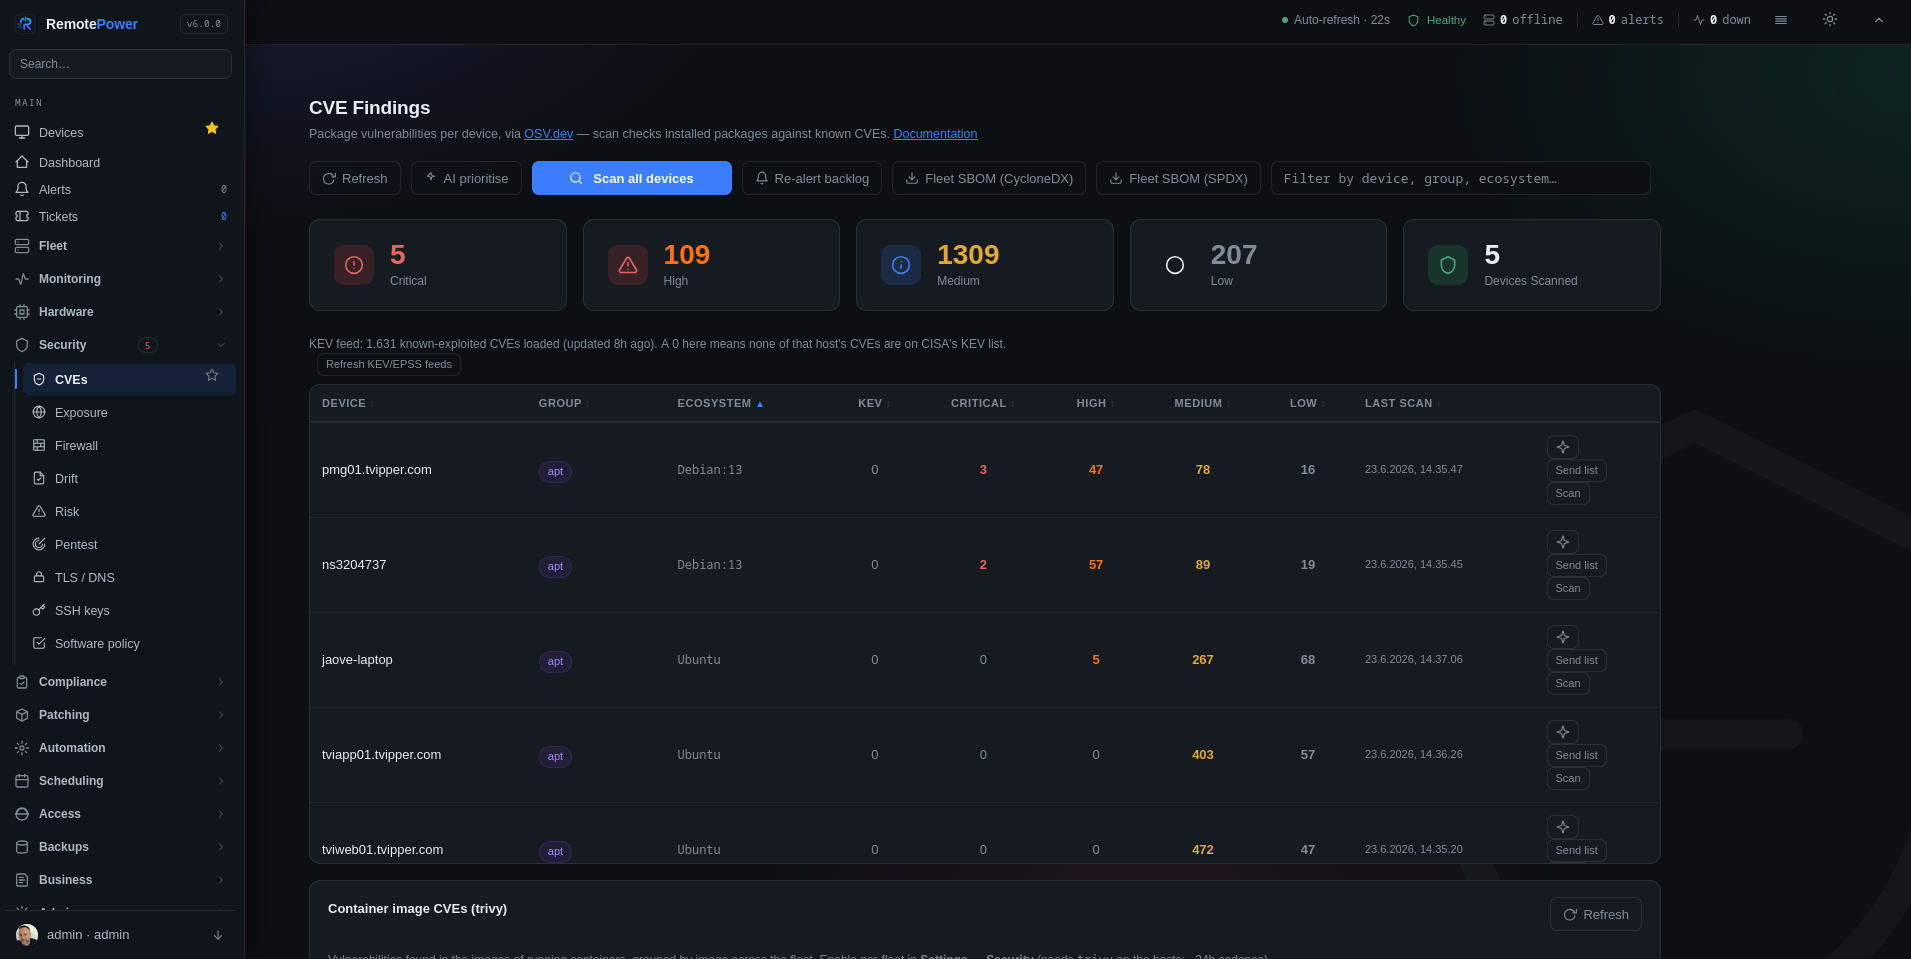
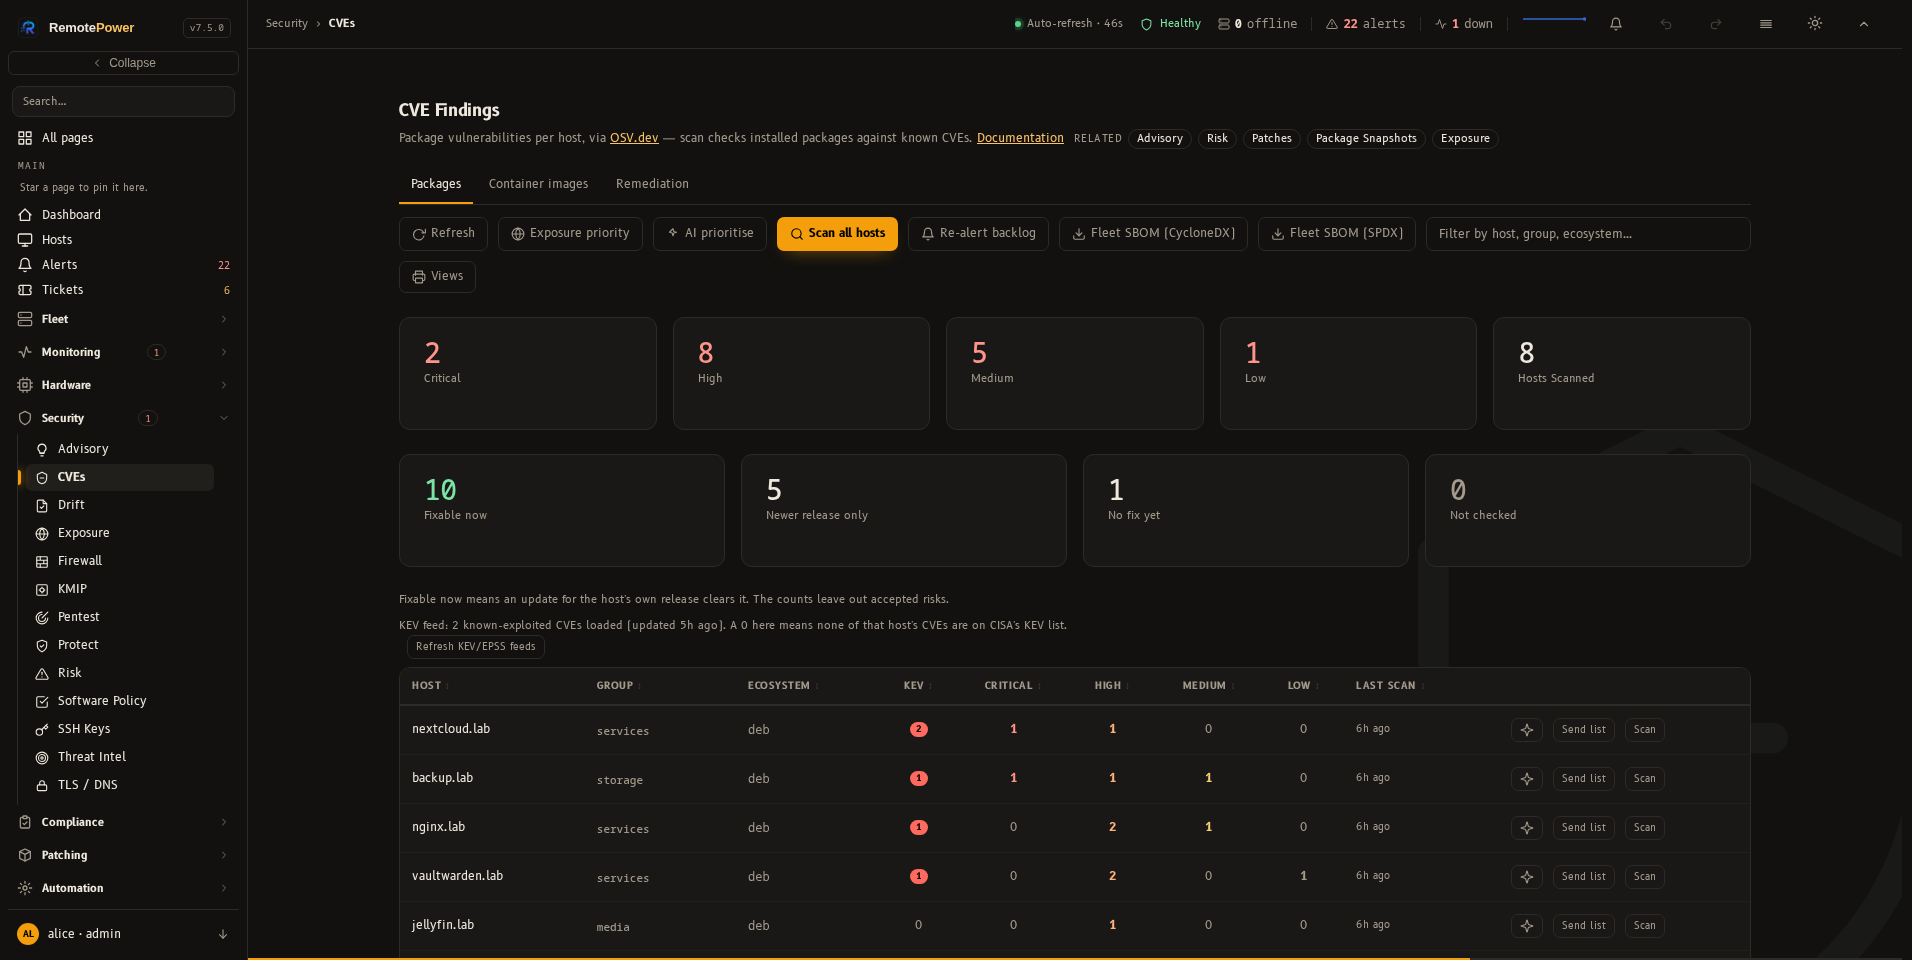
The README screenshots and the tour show the Pilot look with the B612 typeface
Sixteen PNGs and the tour GIF are drawn again from the demo data on a local test stack, signed in as the demo operator with the look and the
typeface chosen in the account's preferences (both stay options; Classic and the system font remain the default, and the README says so under
the tour). Every shot reads the same header: 0 offline, 22 alerts, 1 down. The first open of the Monitoring page runs the monitor sweep, and the
demo's fake targets cannot be reached from the test machine, so every target goes down and the counters jump; the two Monitoring shots are
taken last for that reason.

The tour keeps the six pages of the old one (Dashboard, Hosts, Host metrics, Check catalog, Patches, Settings), holds each for 5 seconds and
fades 9 frames of 60 ms into the next one, the last back into the first. ffmpeg rounds the frame delays to a 25 fps grid, so the delays are
written again after it (5000 and 60 ms, read back with Pillow). 9.3 MB at 1912 x 960, the old one was 9.5 MB; the PNGs total 2.25 MB, they were
4.06 MB. The browser terminal and rp pictures are unchanged: the first is a live session on a real host, the second is the rp terminal program,
and the demo stack has neither.

The WG Access shot is taken with the page's availability flag set in transit, because the test stack has no root helper and the page would say
"not available". The AI shot is taken against a local Ollama that answered.

Claude-Session: https://claude.ai/code/session_01TGmfkaL6oSVcMmYofNrRoM

diff --git a/CHANGELOG.md b/CHANGELOG.md
@@ -33,6 +33,12 @@ What has changed since 7.5.0, on the way to 8.0.0. The release has no codename y
   only the boxes on screen, so a host that was ticked and then filtered out of the list with the box above it was left out of the job without a word.
   The save now reads the ticks. A host that is no longer in the fleet is left out, as before.
 
+- **The README screenshots and the tour are drawn again.** The sixteen pages in the README and the tour GIF show the interface as it is now, in the
+  **Pilot** look with the **B612** typeface. Both stay options under My Account → Appearance; Classic and the system font are what you get until you
+  choose, and the README says so under the tour. The pictures come from the demo data on a test install, 1912 x 960 each. The tour holds six pages
+  for five seconds apiece (Dashboard, Hosts, Host metrics, Check catalog, Patches, Settings) and fades from one to the next. The browser terminal and
+  `rp` pictures are unchanged: the first is a live session on a real host and the second is the `rp` terminal program, and the demo data gives neither.
+
 - **The dashboard keeps named layouts.** Under **Customize → Layouts** you can keep up to 8 layouts next to the one you have, each a name and the
   widgets it shows. Make one from a copy of the layout you are looking at, from one of four ready-made ones (Fleet overview, Security, Patching and
   Capacity) or from an empty one. Once you have one, a switcher appears next to Customize. The panel, the share code and the undo arrows work on the

diff --git a/README.md b/README.md
@@ -29,6 +29,8 @@ listens on the managed host.
 
 <a href="https://demoremote.tvipper.com"><img src="docs/screenshots/RemotePower.gif" alt="RemotePower — live dashboard tour" width="900"></a>
 
+<sub>The screenshots and the tour show the <b>Pilot</b> look with the <b>B612</b> typeface. Both are options under <a href="docs/my-account.md">My Account → Appearance</a>. <b>Classic</b> and the system font are what you get until you choose.</sub>
+
 <details>
 <summary><b>Screenshots</b></summary>
 <br>
